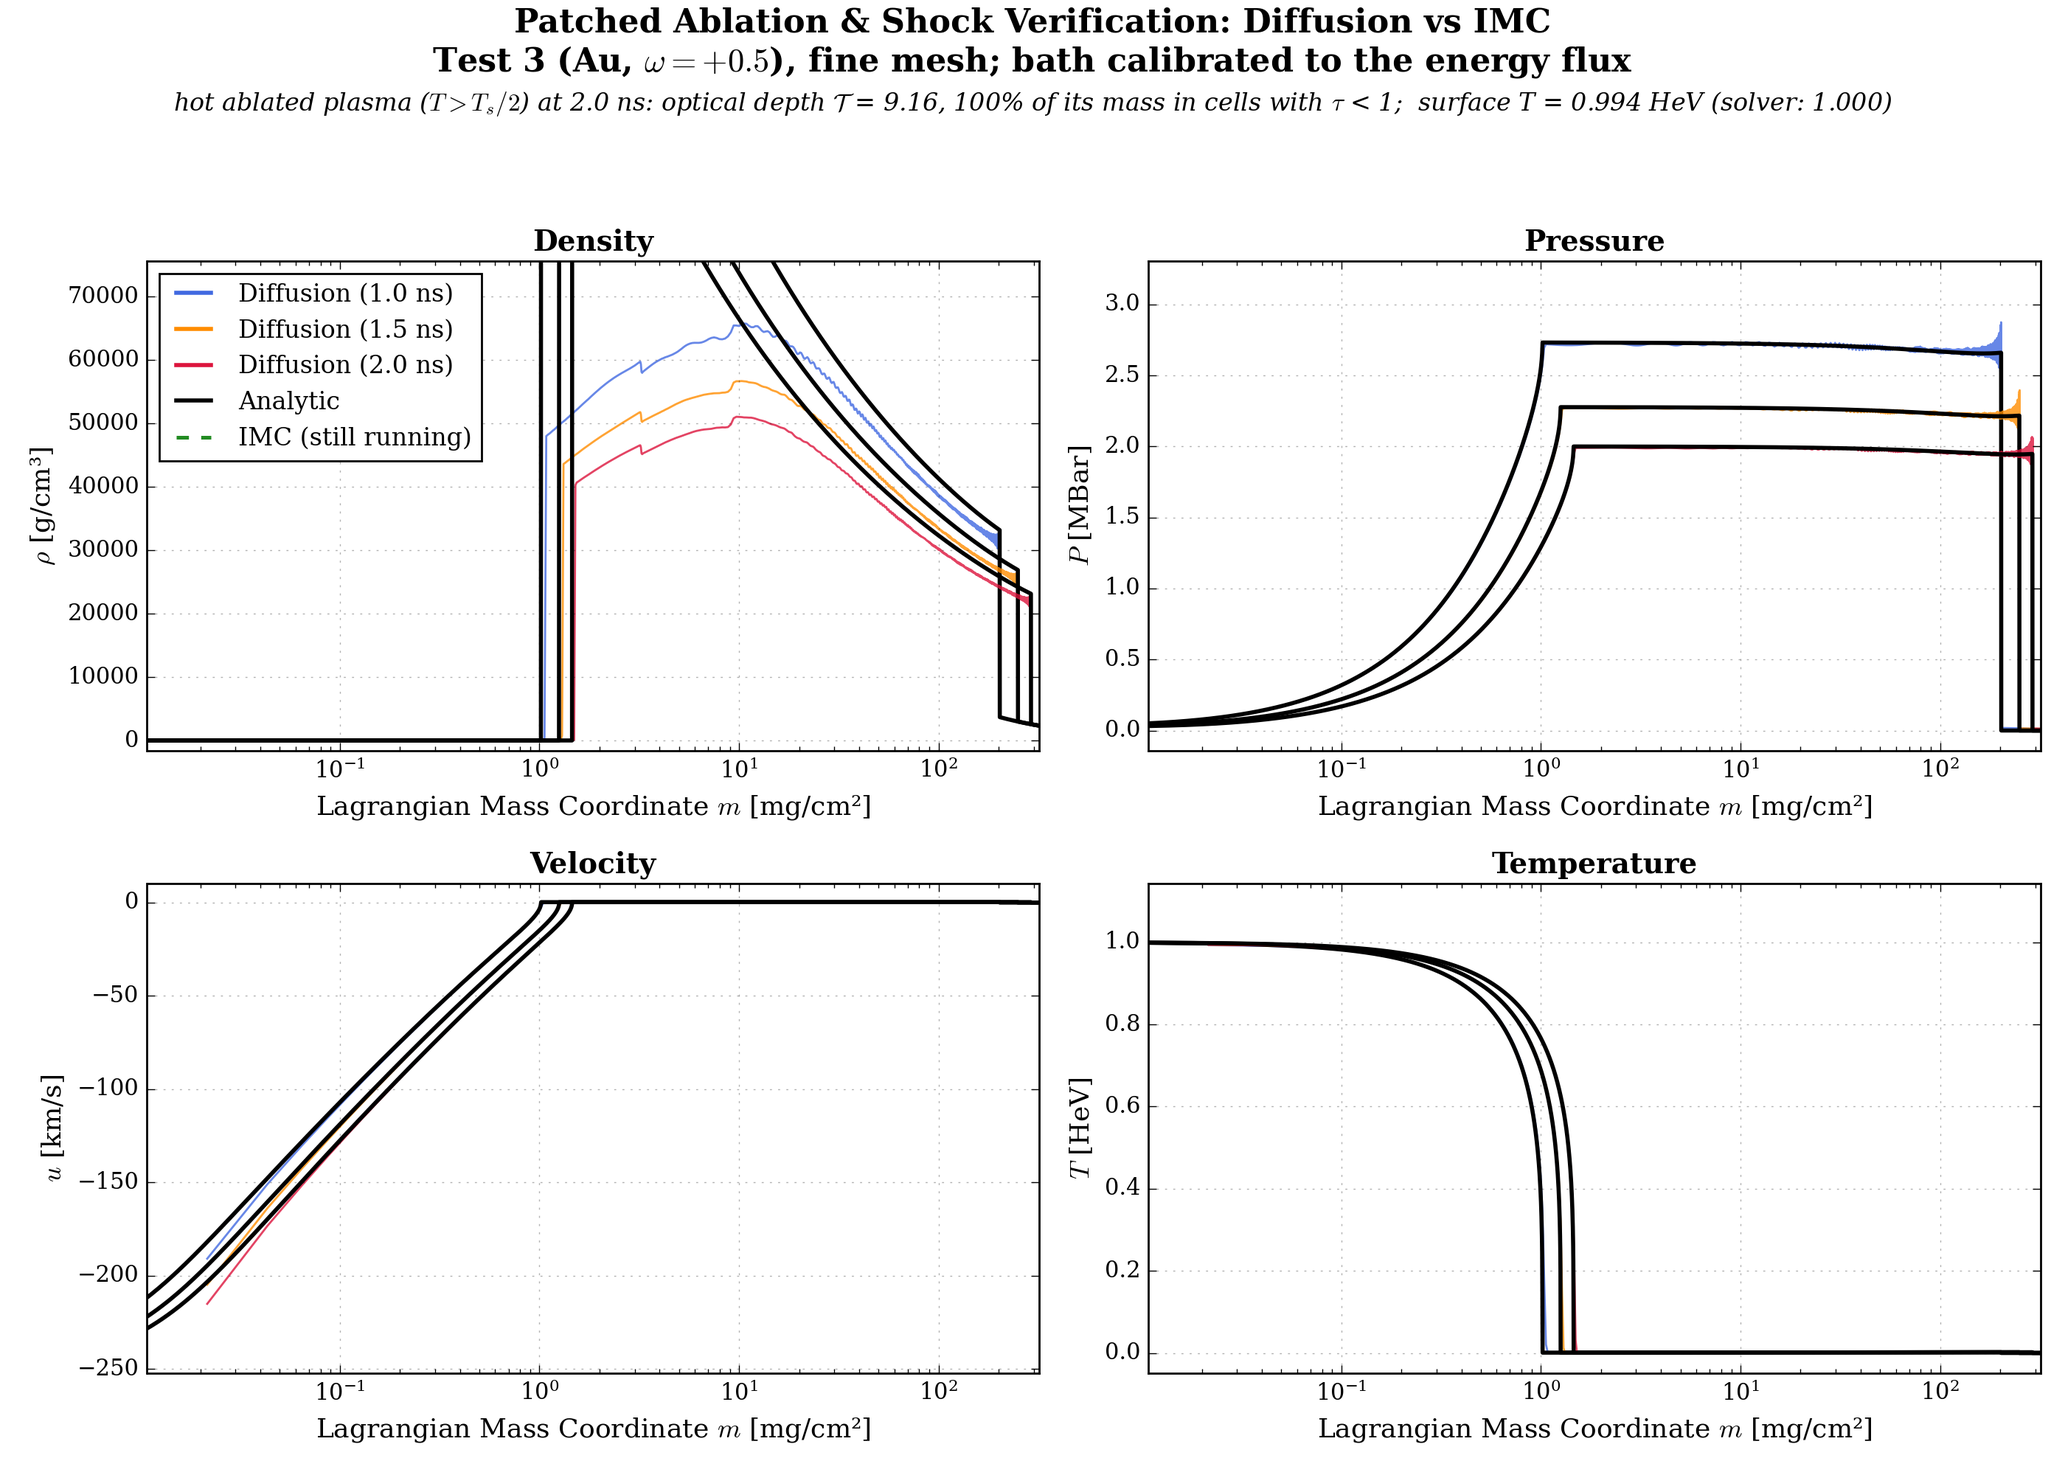
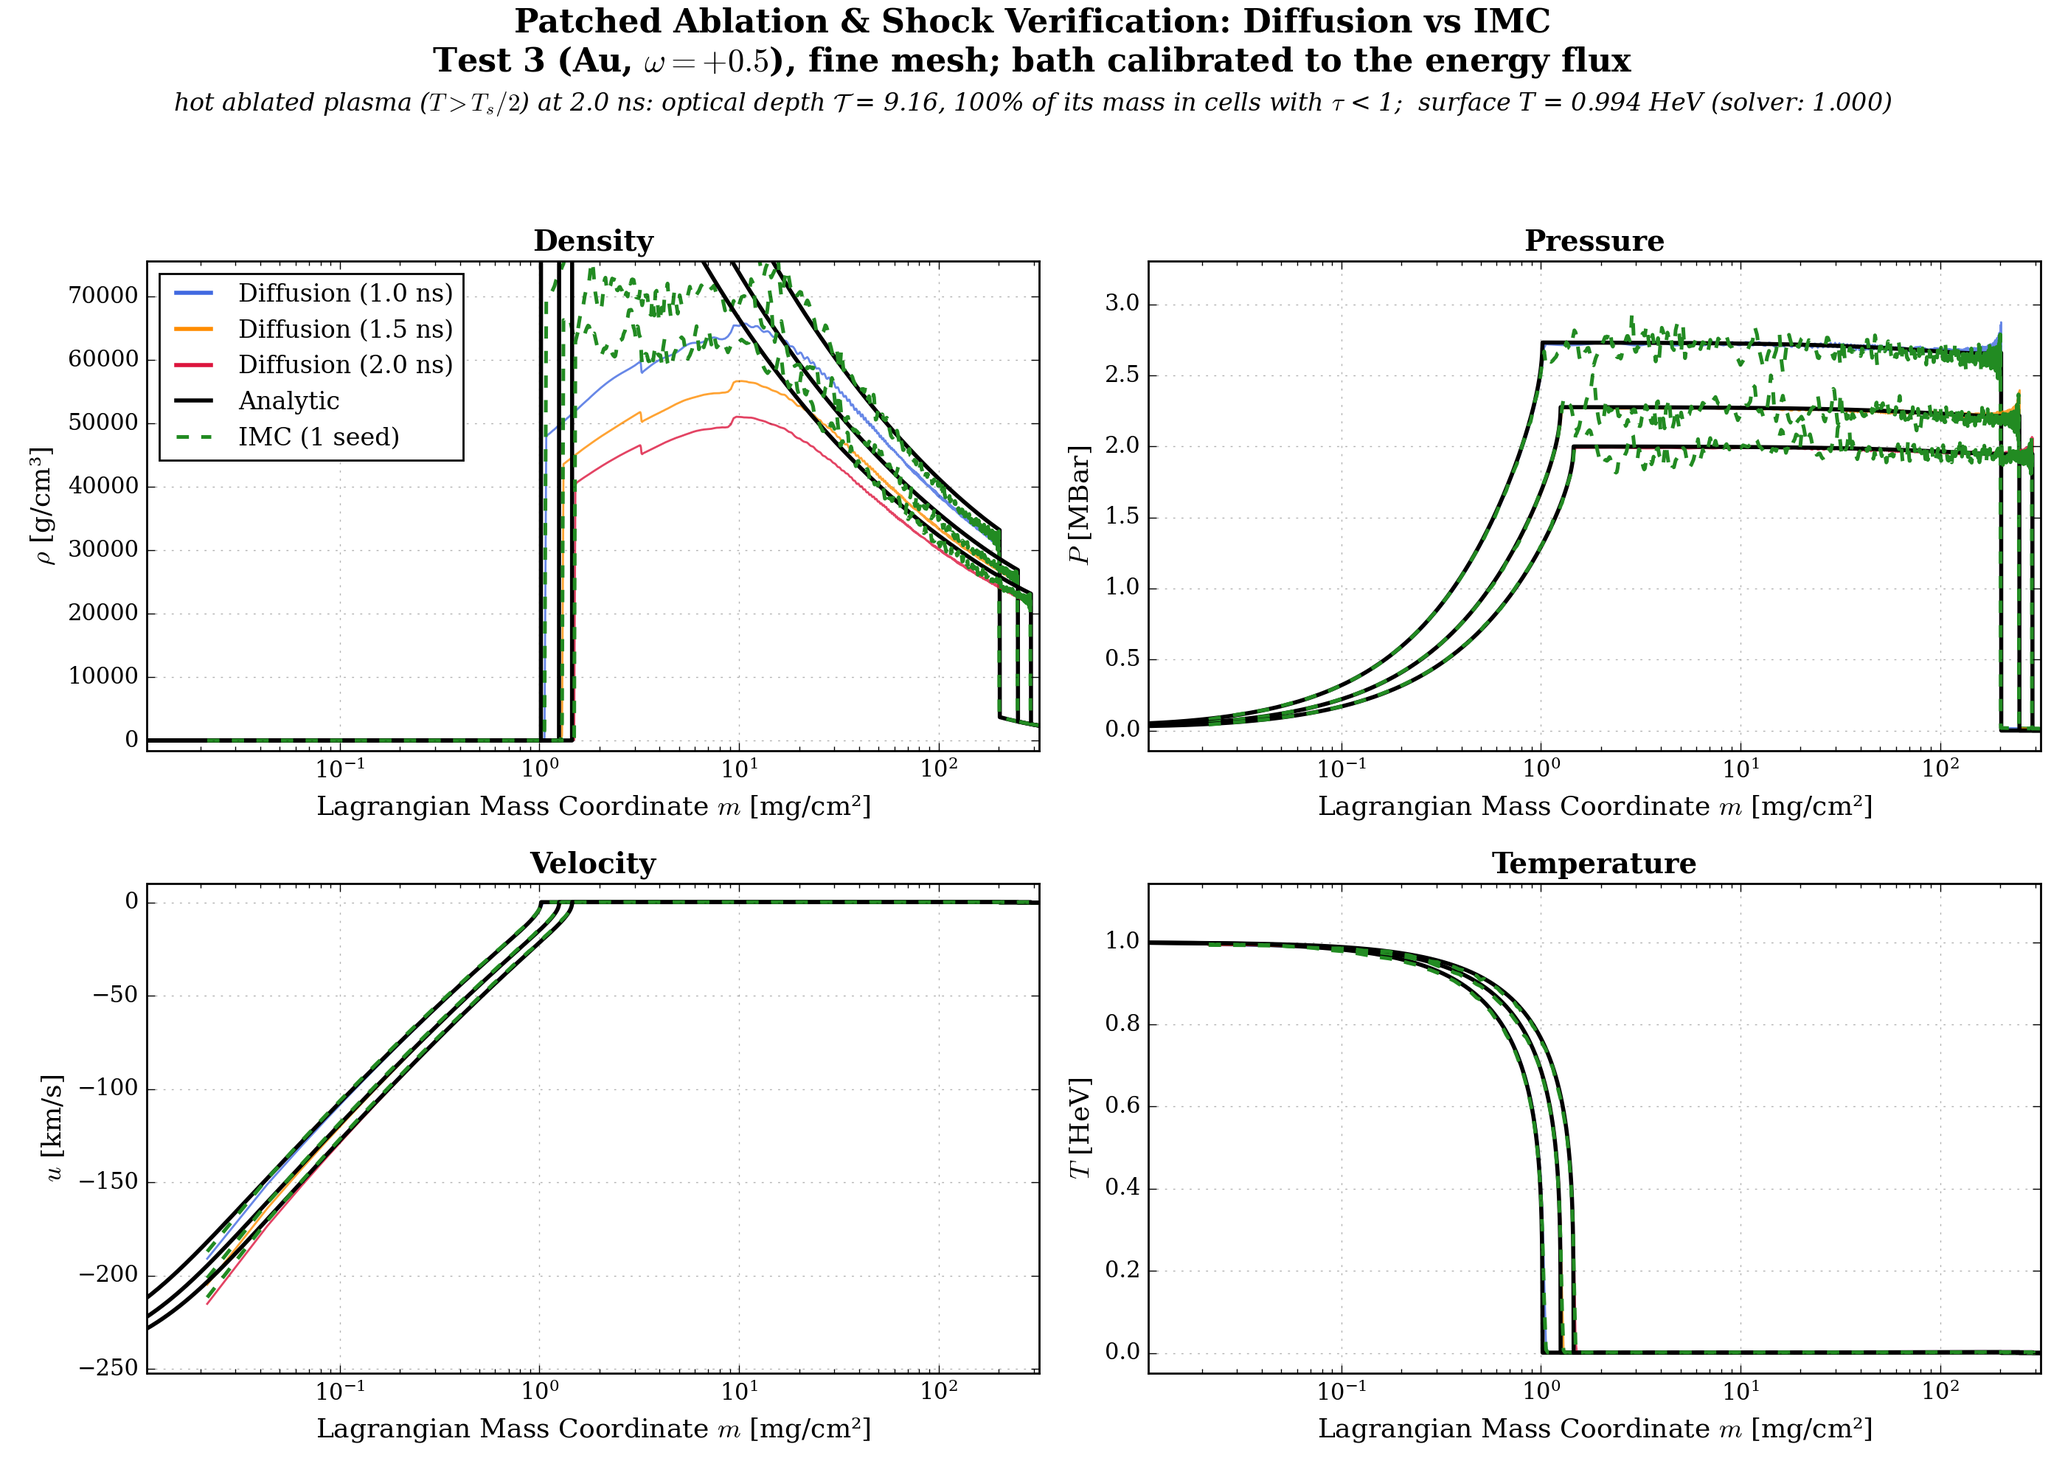
Overnight runs, part 2: Test 3 fine-mesh IMC with the flux bath, omega +0.4 IMC, docs
Test 3 (fine mesh, flux bath) now with IMC; Test 2 and Test 3 rows in the bath table (the
paper bath stays closest for gold with omega >= 0; both flux calibrations moved the bath by
<= 0.4%). omega sweep: IMC with both baths up to +0.4, +0.6 on the fine mesh, the mesh
convergence section and figure.

diff --git a/md/phase_c/omega_sweep/README.md b/md/phase_c/omega_sweep/README.md
@@ -1,11 +1,12 @@
 # Gold ω sweep: heat front and shock against time
 
-Gold, 1 HeV, τ = 0 (Test 4's material and drive) with the density ρ₀x^(−ω) for ω = −0.8 … +0.8 in steps of 0.2 (simulated up to +0.6; +0.8 has the solver only, §2). For each ω: the heat front (x_f, m_f) and the shock (x_s, m_s) against time, from diffusion with the paper bath, diffusion with the flux-calibrated bath, IMC with the paper bath (ω ≤ +0.2), and the semi-analytic `AblationSolver` (the same for both baths). Background on the baths: `../bath_calibration.md`.
+Gold, 1 HeV, τ = 0 (Test 4's material and drive) with the density ρ₀x^(−ω) for ω = −0.8 … +0.8 in steps of 0.2 (simulated up to +0.6; +0.8 has the solver only, §2). For each ω: the heat front (x_f, m_f) and the shock (x_s, m_s) against time, from diffusion with the paper bath, diffusion with the flux-calibrated bath, IMC with both baths (ω ≤ +0.4), and the semi-analytic `AblationSolver` (the same for both baths). Background on the baths: `../bath_calibration.md`.
 
 | file | content |
 |---|---|
 | `fronts_omega<ω>.png` | one per ω (`m0.8` = −0.8, `p0.2` = +0.2): x_f, m_f, x_s, m_s against t, with each simulation's deviation from the solver at 2 ns |
 | `fronts_vs_omega.png` | the deviations at 2 ns against ω, one panel per quantity |
+| `mesh_convergence.png` | the same on the default and on a finer mesh (§ Mesh convergence) |
 
 ## Deviation from the solver at 2 ns
 
@@ -16,29 +17,37 @@ Simulation vs. `AblationSolver`, in %; + means the simulation is ahead.
 | −0.8 | diffusion, paper | −6.7 | +17.6 | −9.0 | −15.8 |
 | | IMC, paper | −7.2 | +17.0 | −9.5 | −16.6 |
 | | diffusion, flux-calibrated | −0.2 | +34.1 | −2.7 | −5.0 |
+| | IMC, flux-calibrated | −0.7 | +33.4 | −3.2 | −5.9 |
 | −0.6 | diffusion, paper | −7.2 | +9.6 | −9.4 | −14.9 |
 | | IMC, paper | −7.8 | +9.0 | −10.0 | −15.7 |
 | | diffusion, flux-calibrated | −1.9 | +21.2 | −4.0 | −6.6 |
+| | IMC, flux-calibrated | −2.4 | +20.4 | −4.6 | −7.4 |
 | −0.4 | diffusion, paper | −5.4 | +3.8 | −6.8 | −9.7 |
 | | IMC, paper | −6.0 | +3.3 | −7.6 | −10.6 |
 | | diffusion, flux-calibrated | −2.4 | +8.9 | −3.6 | −5.2 |
+| | IMC, flux-calibrated | −3.1 | +8.4 | −4.3 | −6.2 |
 | −0.2 | diffusion, paper | −3.1 | +1.0 | −3.3 | −4.2 |
 | | IMC, paper | −4.1 | +0.9 | −4.5 | −5.7 |
 | | diffusion, flux-calibrated | −1.8 | +3.1 | −1.7 | −2.3 |
+| | IMC, flux-calibrated | −2.7 | +2.9 | −2.9 | −3.7 |
 | 0 | diffusion, paper | −2.4 | −0.1 | −0.7 | −0.8 |
 | | IMC, paper | −3.5 | −0.2 | −2.4 | −2.5 |
 | | diffusion, flux-calibrated | −1.7 | +0.7 | +0.2 | 0.0 |
+| | IMC, flux-calibrated | −2.8 | +0.6 | −1.6 | −1.7 |
 | +0.2 | diffusion, paper | −4.7 | −0.5 | +0.7 | +0.5 |
 | | IMC, paper | −6.0 | −0.6 | −1.4 | −1.2 |
 | | diffusion, flux-calibrated | −4.6 | −0.2 | +1.2 | +0.9 |
+| | IMC, flux-calibrated | −5.9 | −0.3 | −0.9 | −0.8 |
 | +0.4 | diffusion, paper | −8.9 | −1.3 | −0.8 | −3.3 |
+| | IMC, paper | −10.9 | −2.2 | −2.0 | −3.6 |
 | | diffusion, flux-calibrated | −8.7 | −1.2 | −0.5 | −3.2 |
+| | IMC, flux-calibrated | −10.4 | −1.9 | −1.7 | −3.5 |
 | +0.6 | diffusion, paper | not resolved | 0.0 | +6.3 | −0.1 |
 
 What it shows:
 - **The shock follows the trend of `why_the_solver_differs.md` §3.** It agrees within ~1% for ω = 0 and +0.2 and falls behind steadily as ω decreases, to −15 … −16% in mass at ω ≤ −0.6, where the ablated mass is a large fraction of the shocked mass.
 - **The flux-calibrated bath roughly halves or thirds the shock deficit for ω < 0** (−16 → −5% at ω = −0.8). It does so by driving more energy in, so the heat front's *mass* m_f runs further ahead (+17 → +34%); its *position* x_f then lands on the solver's. For ω ≥ 0 the two baths agree within ~1%.
-- **IMC follows diffusion** within 0.1–2.1 percentage points on every quantity.
+- **IMC follows diffusion** within 0.1–2.1 percentage points on every quantity, under both baths; its shock is consistently slightly behind diffusion's, by 0.3–1.7 points in mass.
 - **x_f for ω > 0 is limited by the cell at the front**, while m_f agrees within ~1%. The front's position is interpolated between cell centres, and the heated cell holding it is 0.1–0.5 µm wide, against x_f = 3.3 µm (+0.2), 1.0 µm (+0.4) and 0.19 µm (+0.6). Taking the position from the dense side of the front instead (the first cold cell, stepped back to m_f) gives −2.1% at +0.2 and −7.9% at +0.4, so part of the x_f deficit there is real and part is this interpolation; for ω ≤ 0 the two definitions agree within 0.7 points. At +0.6 the heated cell (0.53 µm) is wider than x_f itself, so x_f is not resolved and is left out of the summary.
 - **ω = +0.6** (graded mesh, 1.14 million steps): the heat front's mass and the shock's mass agree with the solver to 0.1%; the shock position is +6.3% ahead, which fits the low density behind the ablation front that Test 3 shows on the same mesh (`../phase_c_tests3to6_results.md`).
 
@@ -46,14 +55,22 @@ What it shows:
 
 | ω | mesh | paper bath | flux calibration | IMC |
 |---|---|---|---|---|
-| −0.8 … −0.2 | 400 cells, uniform in mass | diffusion, 39–49 s | 7 runs (flux matched to 0.2–1.0%), then diffusion, 19–35 s | 1 seed, paper bath |
-| 0 | 657, uniform in mass | 76 s | converged after 4 runs; then diffusion, 32 s | 1 seed |
-| +0.2 | 1510, uniform in mass | 186 s | converged after 3 runs; then diffusion, 100 s | 1 seed, 420 s |
-| +0.4 | 347, graded (Test 3's) | 555 s | converged after 3 runs (0.16%); then diffusion | skipped |
+| −0.8 … −0.2 | 400 cells, uniform in mass | diffusion, 39–49 s | 7 runs (flux matched to 0.2–1.0%), then diffusion, 19–35 s | 1 seed per bath, 1–2 min |
+| 0 | 657, uniform in mass | 76 s | converged after 4 runs; then diffusion, 32 s | 1 seed per bath |
+| +0.2 | 1510, uniform in mass | 186 s | converged after 3 runs; then diffusion, 100 s | 1 seed per bath, 7–10 min |
+| +0.4 | 347, graded (Test 3's) | 555 s | converged after 3 runs (0.16%); then diffusion | 1 seed per bath, ~50 min |
 | +0.6 | 347, graded | ~1 h of compute, 1.14 million steps, with the first step at 10⁻¹² t_end (below) | skipped | skipped |
 | +0.8 | — | **not simulated** (below); the solver exists | — | — |
 
 The uniform-mass meshes put ≥ 40 cells across the ablated layer at 2 ns (cells = 40 × 1.15 m_s/m_f, 400 to 2000). From ω = +0.4 the shocked mass is ≥ 100× the ablated one, so the graded mesh of Test 3 is used. Its shocked region has coarse cells, which costs a few % in the shock (Test 3: −2% on this mesh).
+
+### Mesh convergence
+
+`mesh_convergence.png`: every ω again on a finer mesh (`--fine`), both baths: 2.5× the cells of the uniform-mass mesh for ω ≤ +0.2 (1000 to 3775 cells), and Test 3's fine-mesh cap of 0.3 mg/cm² per cell on the graded mesh for ω ≥ +0.4. The flux tables are the default mesh's.
+- **ω ≤ −0.4:** every front moves by ≤ 0.5 points: the trend with ω is converged.
+- **ω = −0.2 … +0.2:** up to 1.3 points on the shock (ω = 0: m_s −0.8 → −2.0%; +0.2: +0.5 → −0.8%), so at small |ω| the remaining differences of 1–2% are of the order of the mesh error.
+- **ω = +0.4:** the cap moves the shock mass from −3.3% to −0.7% (the coarse shocked region was the error); x_f stays at −8.7%.
+- **ω = +0.6:** m_s −0.1 → +1.8%, x_s +6.3 → +5.6%; x_f stays unresolved, since the cap does not refine the heated cell at the front.
 
 ### ω = +0.6 and +0.8
 
@@ -68,6 +85,8 @@ uv run python -m rad_hydro_sim.verification.omega_sweep --run=-0.8 --imc       #
 uv run python -m rad_hydro_sim.verification.omega_sweep --run=0.2
 uv run python -m rad_hydro_sim.verification.omega_sweep --run=0.4
 uv run python -m rad_hydro_sim.verification.omega_sweep --run=0.6 --no-flux
+uv run python -m rad_hydro_sim.verification.omega_sweep --run=-0.8 --no-paper --imc-flux   # IMC with the flux bath
+uv run python -m rad_hydro_sim.verification.omega_sweep --run=-0.8 --fine                    # the finer mesh, both baths
 uv run python -m rad_hydro_sim.verification.omega_sweep --figures
 ```
 

diff --git a/md/phase_c/bath_calibration.md b/md/phase_c/bath_calibration.md
@@ -2,7 +2,7 @@
 
 Branch `feat/patching-poc`, 2026-11-05. The reference is Menahem's semi-analytic `AblationSolver`, unchanged. The attempts to improve its patching are legacy (§4). This page compares the three ways of driving the simulations against it.
 
-**In one paragraph.** The bath is the only thing that changes between the three sets of simulations; the analytic curve is the same for all of them. For gold with ω ≥ 0 the **paper bath** is already closest (Tests 1–2), and calibrating moves the simulations 1–2% further from the solver. For copper and aluminum the **flux-calibrated bath** is clearly closest: whole-profile error 2.6% vs. 9.4% (paper) for Cu, and 7.6% vs. 15.9% for Al. The **temperature-calibrated bath** is the worst option there (26% and 16%). For Test 4 (gold, ω = −0.5) the flux-calibrated bath is also closest (17.8% vs. 25.4%). It doesn't close the gap, though: it trades the shock error (−12.5% → −6.4%) for the heat front (+6% → +14%), and what remains comes from the solver's patching (`why_the_solver_differs.md` §3).
+**In one paragraph.** The bath is the only thing that changes between the three sets of simulations; the analytic curve is the same for all of them. For gold with ω ≥ 0 the **paper bath** is already closest (Tests 1–3), and calibrating moves the simulations 0.4–2% further from the solver. For copper and aluminum the **flux-calibrated bath** is clearly closest: whole-profile error 2.6% vs. 9.4% (paper) for Cu, and 7.6% vs. 15.9% for Al. The **temperature-calibrated bath** is the worst option there (26% and 16%). For Test 4 (gold, ω = −0.5) the flux-calibrated bath is also closest (17.8% vs. 25.4%). It doesn't close the gap, though: it trades the shock error (−12.5% → −6.4%) for the heat front (+6% → +14%), and what remains comes from the solver's patching (`why_the_solver_differs.md` §3).
 
 ---
 
@@ -53,7 +53,10 @@ Profile L1 is the mass-weighted |diffusion − analytic| over the domain, relati
 | | flux-calibrated | 4.4% | +2.0% | +1.4% | −2.2% |
 | | T-calibrated | 4.9% | +2.2% | +1.8% | −2.1% |
 | Test 2 (Au, τ > 0) | **paper** | **4.8%** | +1.0% | +2.0% | −4.5% |
+| | flux-calibrated | 5.3% | +1.3% | +2.4% | −4.6% |
 | | T-calibrated | 6.6% | +2.1% | +3.5% | −4.0% |
+| Test 3 (Au, ω = +0.5, fine mesh) | **paper** | **3.4%** | −1.0% | 0.0% | −4.5% |
+| | flux-calibrated | 3.8% | −0.8% | +0.3% | −4.8% |
 | Test 4 (Au, ω = −0.5) | **flux-calibrated** | **17.8%** | +13.8% | −6.4% | +15.1% |
 | | T-calibrated | 23.4% | +8.1% | −10.9% | +11.9% |
 | | paper | 25.4% | +6.0% | −12.5% | +10.2% |
@@ -64,13 +67,15 @@ Profile L1 is the mass-weighted |diffusion − analytic| over the domain, relati
 | | T-calibrated | 15.7% | +14.3% | +6.6% | +2.8% |
 | | paper | 15.9% | −4.1% | −7.8% | −8.5% |
 
-With the paper bath only: Test 3 (Au, ω = +0.5) 3.4%, with a heat front −1.0%, shock 0.0% and front pressure −4.5%. The gold ω sweep, −0.8 to +0.6, is in [`omega_sweep/`](omega_sweep/README.md).
+Test 2's flux calibration converged after 3 runs (0.19%), Test 3's after 3 runs on the coarse mesh (0.18%; the fine-mesh runs use the same table). In both the correction factor stays within 0.999–1.004: for gold with ω ≥ 0 the paper bath already delivers the solver's energy flux to within 0.5%.
 
-IMC follows diffusion under every bath (`phase_c_tests3to6_results.md` §1): within ≤ 2.3% for gold and ≤ 5.3% for Cu and Al, independent of the bath.
+The gold ω sweep, −0.8 to +0.8 (simulated up to +0.6), with both baths and a mesh-convergence check, is in [`omega_sweep/`](omega_sweep/README.md).
+
+IMC follows diffusion under every bath (`phase_c_tests3to6_results.md` §1): within ≤ 2.3% for gold and ≤ 5.3% for Cu and Al, independent of the bath. With the flux-calibrated bath, Test 2 (3 seeds) and Test 3 (fine mesh, 1 seed) follow the same pattern: Test 3's IMC is within 1.0 point of diffusion on the fronts.
 
 ## 3. Conclusions
 
-1. **Gold with ω ≥ 0: keep the paper bath.** The surface is in LTE, so the paper relation is already right: the matter surface is at 0.997–1.000 HeV. Both calibrations move the simulations 1–2% further from the solver, which is within resolution.
+1. **Gold with ω ≥ 0: keep the paper bath.** The surface is in LTE, so the paper relation is already right: the matter surface is at 0.995–1.000 HeV. In Tests 1–3 both calibrations move the simulations 0.4–2% further from the solver over the whole profile, which is within resolution.
 2. **Cu and Al: use the flux-calibrated bath.** It brings every front within ~4% of the solver, against 5–9% with the paper bath. The T-calibrated bath is the wrong target where the surface is out of LTE: it overshoots by 13–20% on the fronts.
 3. **Test 4: the bath is not the problem.** The flux-calibrated bath has the smallest whole-profile error, but by trading the shock (−12.5% → −6.4%) for the heat front (+6% → +14%) and the front pressure (+10% → +15%). No bath reconciles the simulations with the solver there. That is the signature of the solver's rigid-front patching (`why_the_solver_differs.md` §3), not of the drive.
 4. **For the paper:** report Tests 1–3 with the paper bath, Tests 5–6 with the flux-calibrated bath (and state why: the surface optical depth), and Test 4 as the limit of the patched solution, with m_f/m_s next to it.

diff --git a/md/phase_c/figures/README.md b/md/phase_c/figures/README.md
@@ -6,7 +6,7 @@ Every figure here is a full-profile figure (ρ, p, u, T against Lagrangian mass)
 |---|---|
 | `paper_bath/` | simulations driven by the manuscript's bath relation: Tests 1–6 and the earlier ω scan (ω = −0.75, −0.5 at N = 400, −0.25, +0.25 at N = 2000) |
 | `calibrated_T_bath/` | bath calibrated so that the matter's surface temperature follows T_s(t): Tests 1, 2, 4, 5, 6 |
-| `calibrated_flux_bath/` | bath calibrated so that the net energy flux equals the solver's s(0, t): Tests 1, 4, 5, 6 |
+| `calibrated_flux_bath/` | bath calibrated so that the net energy flux equals the solver's s(0, t): Tests 1–6 (Test 3 on its fine mesh) |
 | `overlay/` | one figure per case with more than one bath, at 2 ns: diffusion under every bath against the solver, the closest (smallest profile L1) drawn bold, the baths ranked in a table with their front errors |
 | `legacy/fix_B/` | figures that involve fix B, a numerical moving-front target. **Not analytic** (`../legacy/patching_poc_fix_B.md`) |
 | `legacy/impulse_patch/` | the impulse-matched patch, per bath and overlays (`../legacy/analytic_patching_impulse.md`) |
@@ -14,7 +14,7 @@ Every figure here is a full-profile figure (ρ, p, u, T against Lagrangian mass)
 
 Test 3's file is `test3_full_profiles.png` (its fine-mesh run, `test3_smooth`).
 
-**Tests 3 and 4, every view.** Each folder that has the case (Test 3: `paper_bath/`; Test 4: the three bath folders and `overlay/`) also has a subfolder `test3_full/` or `test4_full/` with six figures, `<region>_<scale>.png`:
+**Tests 3 and 4, every view.** Each folder that has the case (Test 3: `paper_bath/`, `calibrated_flux_bath/` and `overlay/`; Test 4: the three bath folders and `overlay/`) also has a subfolder `test3_full/` or `test4_full/` with six figures, `<region>_<scale>.png`:
 
 | region | mass window | | scale | axes |
 |---|---|---|---|---|
